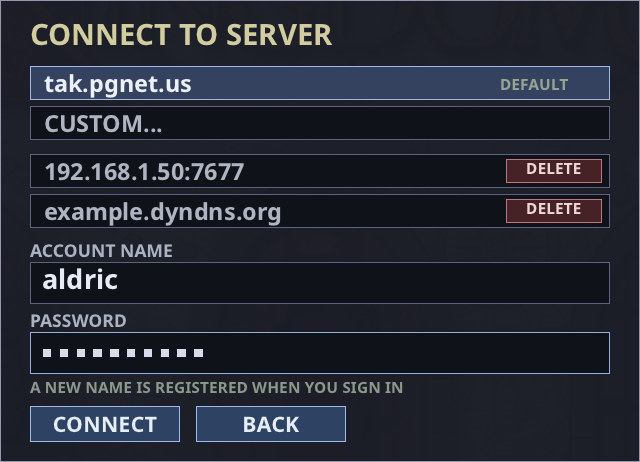
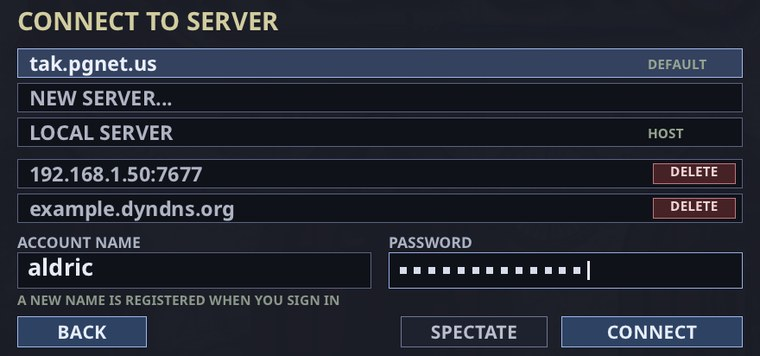
User guide: new Connect to Server picture (NEW SERVER..., LOCAL SERVER, fields on one line, SPECTATE)
Claude-Session: https://claude.ai/code/session_01DLiMWrKYHUMBLp8Vqt4ANr

Changed region(s): [[0.0, 0.0, 1.0, 1.0], [0.8125, 0.6489, 0.9375, 0.6798], [0.9688, 0.0, 1.0, 0.0309]]

diff --git a/src/client/mainmenu.cpp b/src/client/mainmenu.cpp
@@ -1698,7 +1698,7 @@ MainMenu::Choice MainMenu::run(const std::string& shotPath, std::string* serverO
             if (m == 2) d_->setServerSel(1);   // CUSTOM view
             if (m == 3) d_->serverError = "COULD NOT CONNECT TO TAK.PGNET.US";
             if (m == 4) {   // signed-in state: name filled, password part-typed
-                d_->loginUser = "curtis";
+                d_->loginUser = "aldric"   /* the user guide's picture */;
                 d_->loginPass = "hunter2hunter";
                 d_->field = 3;
             }

diff --git a/docs/user-guide.md b/docs/user-guide.md
@@ -2278,7 +2278,7 @@ host's game mods are sent automatically.
 
 ### Joining a game
 
-![The Connect to Server panel: the default server tak.pgnet.us, NEW SERVER..., two remembered servers each with a DELETE button, the account name and password fields, the note A NEW NAME IS REGISTERED WHEN YOU SIGN IN, and the CONNECT and BACK buttons](img/mp-connect.jpg)
+![The Connect to Server panel: the default server tak.pgnet.us, NEW SERVER..., LOCAL SERVER (HOST), two remembered servers each with a DELETE button, the account name and password fields side by side, the note A NEW NAME IS REGISTERED WHEN YOU SIGN IN, and BACK on the left with SPECTATE and CONNECT on the right](img/mp-connect.jpg)
 
 *Signing in to a server.*
 
